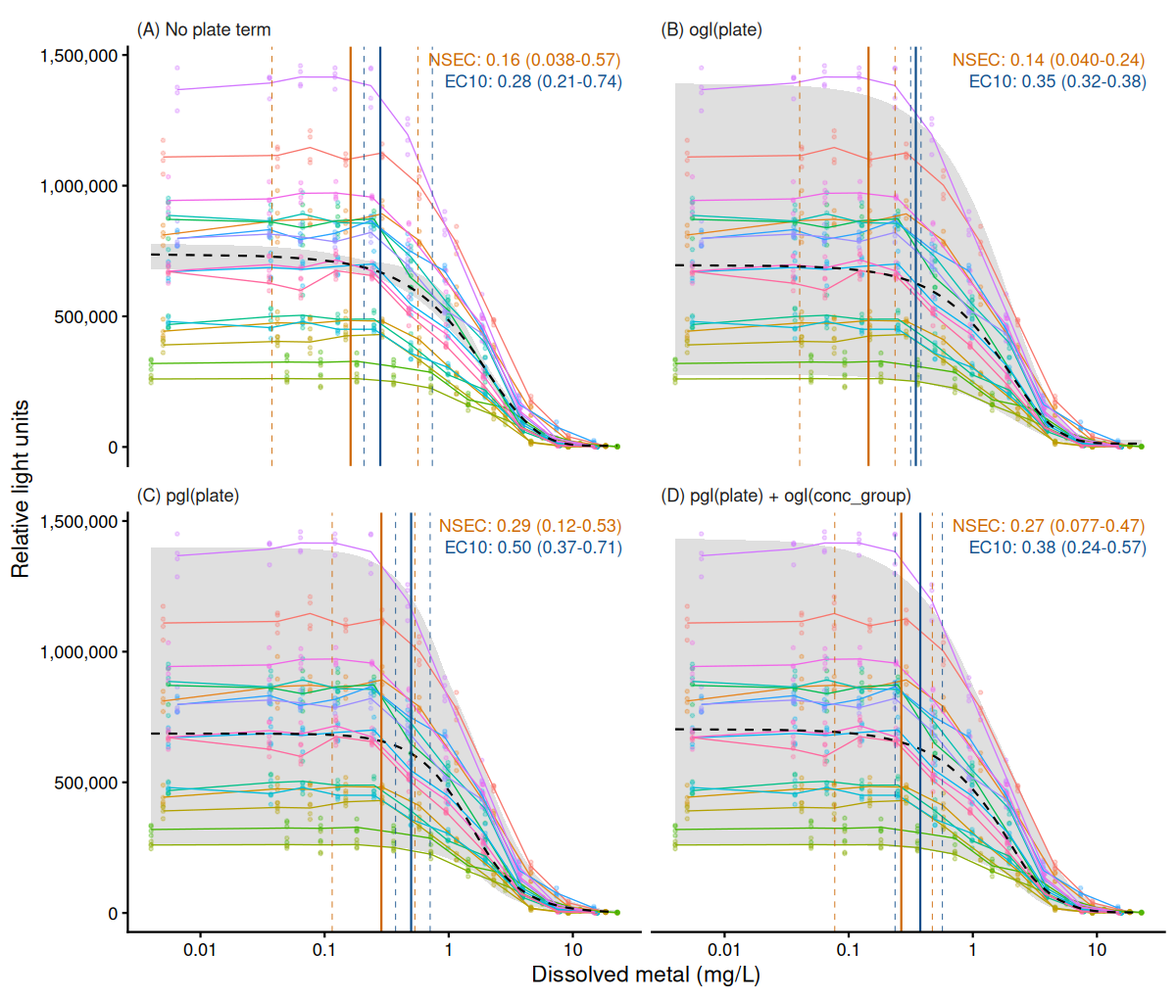
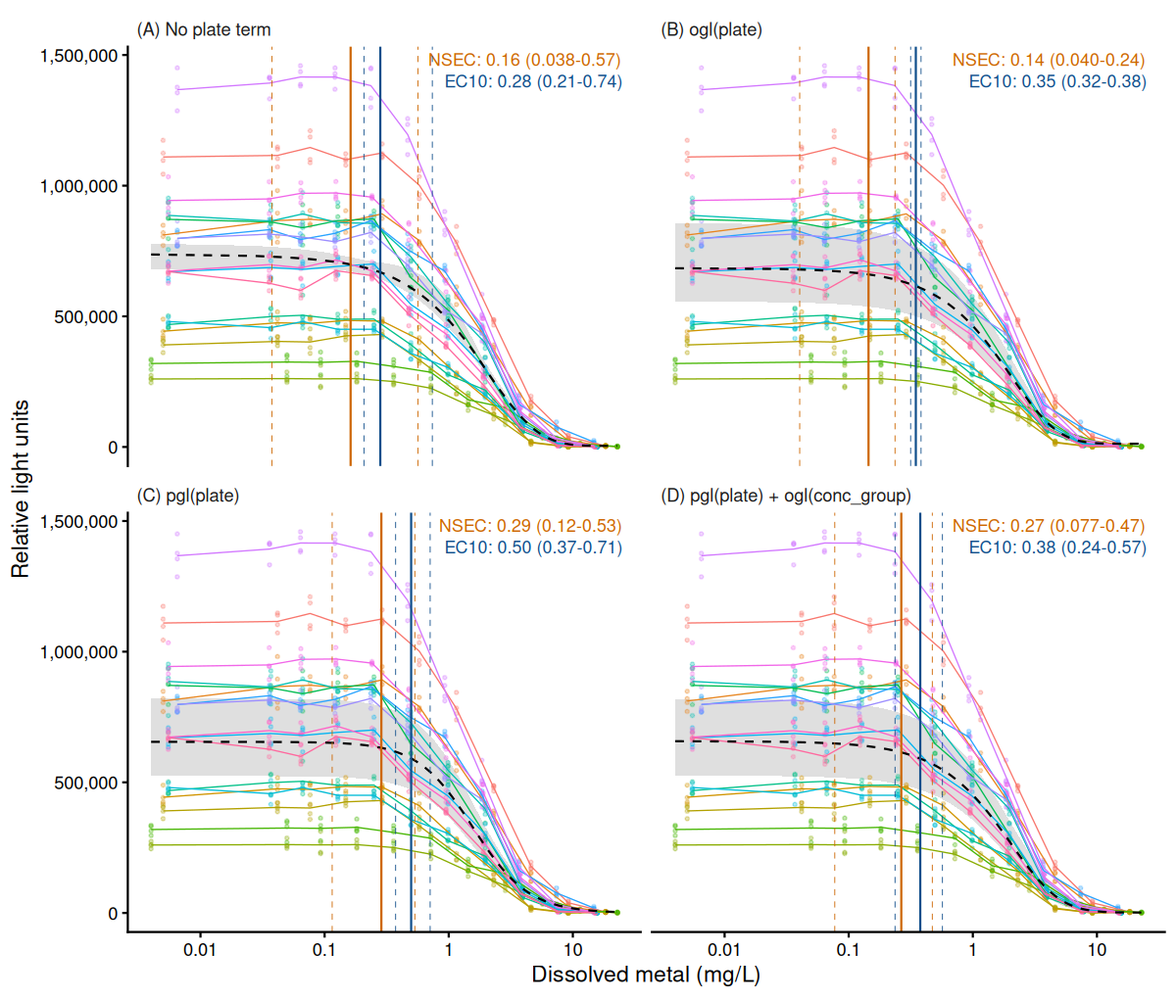
Deploying to gh-pages from @ open-AIMS/bayesnec@c6fff4658cb30df859e9e85793e5b8e6be7b2eff 🚀

diff --git a/dev/articles/example8.html b/dev/articles/example8.html
@@ -835,15 +835,20 @@ plate against its own control (its fitted mean at its lowest
 concentration). The plates are then pooled by mixing their posterior
 draws in proportion to each plate’s number of observations, so the
 estimate describes the 17 plates that were tested and not a new plate.
-The band that <code><a href="../reference/autoplot.html">autoplot()</a></code> and <code><a href="../reference/ggbnec_data.html">ggbnec_data()</a></code>
-draw is a mixture of the plates’ curves in the same proportions.
-<code>pool</code> selects another combination (e.g. one estimate per
-plate with <code>pool = "none"</code>), and <code>x_control</code> sets
-the concentration at which each plate’s control is read (see
-<code><a href="../reference/ecx.html">?ecx</a></code>). The cell term in D is set to zero in these
-predictions, as on the single plate, because each cell is observed at
-one concentration, so its deviation remains part of the uncertainty in
-the control.</p>
+The curve and band that <code><a href="../reference/autoplot.html">autoplot()</a></code> and
+<code><a href="../reference/ggbnec_data.html">ggbnec_data()</a></code> draw are those of the population curve, with
+every plate’s deviation at zero. The band is therefore the credible
+interval of the mean response of a typical plate, and it does not
+include the differences between plates. The EC10 and NSEC are read from
+the plates’ own curves, so their lines need not fall where the plotted
+curve has fallen by 10 per cent or below the 0.01 quantile of its
+control. <code>pool</code> selects another combination (e.g. one
+estimate per plate with <code>pool = "none"</code>), and
+<code>x_control</code> sets the concentration at which each plate’s
+control is read (see <code><a href="../reference/ecx.html">?ecx</a></code>). The cell term in D is set to
+zero in these predictions, as on the single plate, because each cell is
+observed at one concentration, so its deviation remains part of the
+uncertainty in the control.</p>
 <div class="sourceCode" id="cb19"><pre class="downlit sourceCode r">
 <code class="sourceCode R"><span><span class="va">fit_pooled</span> <span class="op">&lt;-</span> <span class="fu"><a href="../reference/bnec.html">bnec</a></span><span class="op">(</span><span class="va">rlu_cens</span> <span class="op">|</span> <span class="fu">cens</span><span class="op">(</span><span class="va">censoring</span><span class="op">)</span> <span class="op">~</span> <span class="fu">crf</span><span class="op">(</span><span class="fu"><a href="https://rdrr.io/r/base/Log.html" class="external-link">log</a></span><span class="op">(</span><span class="va">conc</span><span class="op">)</span>, <span class="st">"all"</span><span class="op">)</span> <span class="op">+</span></span>
 <span>                     <span class="fu">disp</span><span class="op">(</span><span class="st">"power"</span><span class="op">)</span>,</span>
@@ -968,14 +973,14 @@ shows each fit.</p>
 <span>  <span class="fu"><a href="https://ggplot2.tidyverse.org/reference/theme.html" class="external-link">theme</a></span><span class="op">(</span>legend.position <span class="op">=</span> <span class="st">"none"</span>, strip.background <span class="op">=</span> <span class="fu"><a href="https://ggplot2.tidyverse.org/reference/element.html" class="external-link">element_blank</a></span><span class="op">(</span><span class="op">)</span>,</span>
 <span>        strip.text <span class="op">=</span> <span class="fu"><a href="https://ggplot2.tidyverse.org/reference/element.html" class="external-link">element_text</a></span><span class="op">(</span>hjust <span class="op">=</span> <span class="fl">0</span><span class="op">)</span><span class="op">)</span></span></code></pre></div>
 <div class="figure" style="text-align: center">
-<img src="vignette-fig-fig-plate-terms-1.png" alt="The zinc readings at 15 minutes fitted with each plate structure (panels A to D). Each point is one well, and each thin line joins one plate's observed means, coloured by plate; these do not change between panels. The dashed black line is the median of the model-averaged curve and the grey band its 95% credible interval, taken in panels B to D over the mixture of the observed plates' curves. The blue lines mark the EC10 and the orange lines the NSEC, solid at the median and dashed at the 95% bounds." width="100%"><p class="caption">
+<img src="vignette-fig-fig-plate-terms-1.png" alt="The zinc readings at 15 minutes fitted with each plate structure (panels A to D). Each point is one well, and each thin line joins one plate's observed means, coloured by plate; these do not change between panels. The dashed black line is the median of the model-averaged curve and the grey band its 95% credible interval, in panels B to D for the population curve, with each plate's deviation at zero. The blue lines mark the EC10 and the orange lines the NSEC, solid at the median and dashed at the 95% bounds." width="100%"><p class="caption">
 The zinc readings at 15 minutes fitted with each plate structure (panels
 A to D). Each point is one well, and each thin line joins one plate’s
 observed means, coloured by plate; these do not change between panels.
 The dashed black line is the median of the model-averaged curve and the
-grey band its 95% credible interval, taken in panels B to D over the
-mixture of the observed plates’ curves. The blue lines mark the EC10 and
-the orange lines the NSEC, solid at the median and dashed at the 95%
+grey band its 95% credible interval, in panels B to D for the population
+curve, with each plate’s deviation at zero. The blue lines mark the EC10
+and the orange lines the NSEC, solid at the median and dashed at the 95%
 bounds.
 </p>
 </div>
@@ -986,11 +991,12 @@ fitted curve, its band, and the EC10 and NSEC.</p>
 plates are counted as residual variation, and one curve is fitted to the
 wells of all 17 plates as though they came from one plate. Its band is
 therefore narrow, with an upper bound 1.14 times its lower bound at the
-lowest concentration. With a plate term (panels B to D), the band is
-that of the mixture of the plates’ curves, so at the lowest
-concentration it includes the differences in gain between plates as well
-as the uncertainty in each plate’s curve, and its upper bound is 5.0 to
-5.4 times its lower bound.</p>
+lowest concentration. With a plate term (panels B to D), the upper bound
+is 1.5 to 1.6 times the lower bound, because the population curve then
+describes a typical plate, and its height is estimated from plates that
+differ in gain. The band does not include those differences themselves,
+and the mean reading of 11 of the 17 plates at their lowest
+concentration is outside it.</p>
 <p>The EC10 interval depends on the kind of plate term.
 <code>ogl(plate)</code> (B) scales each plate’s curve by one factor,
 which cancels in an effect measured from that plate’s own control, so in
@@ -1217,10 +1223,10 @@ from the table above in this way.</p>
 <span>  <span class="fu">mark_estimate</span><span class="op">(</span><span class="fu">by_level</span><span class="op">(</span><span class="va">level_ec10</span><span class="op">)</span>, <span class="st">"EC10"</span>, <span class="va">ec10_colour</span>, vjust <span class="op">=</span> <span class="fl">3.2</span><span class="op">)</span> <span class="op">+</span></span>
 <span>  <span class="va">log_x</span> <span class="op">+</span> <span class="va">rlu_axes</span></span></code></pre></div>
 <div class="figure" style="text-align: center">
-<img src="vignette-fig-fig-metals-1.png" alt="The copper and zinc readings at 15 minutes, with the model-averaged curve of each metal's separate fit (dashed line, the median over the mixture of that metal's plates) and its 95% credible interval (grey band). The blue lines mark the EC10 and the orange lines the NSEC, solid at the median and dashed at the 95% bounds." width="95%"><p class="caption">
+<img src="vignette-fig-fig-metals-1.png" alt="The copper and zinc readings at 15 minutes, with the model-averaged curve of each metal's separate fit (dashed line, the population curve, with each plate's deviation at zero) and its 95% credible interval (grey band). The blue lines mark the EC10 and the orange lines the NSEC, solid at the median and dashed at the 95% bounds." width="95%"><p class="caption">
 The copper and zinc readings at 15 minutes, with the model-averaged
-curve of each metal’s separate fit (dashed line, the median over the
-mixture of that metal’s plates) and its 95% credible interval (grey
+curve of each metal’s separate fit (dashed line, the population curve,
+with each plate’s deviation at zero) and its 95% credible interval (grey
 band). The blue lines mark the EC10 and the orange lines the NSEC, solid
 at the median and dashed at the 95% bounds.
 </p>

diff --git a/dev/reference/bayesnecformula.html b/dev/reference/bayesnecformula.html
@@ -465,34 +465,34 @@ formula.</p>
 <span class="r-in"><span></span></span>
 <span class="r-in"><span><span class="fu">bayesnecformula</span><span class="op">(</span><span class="va">y</span> <span class="op">~</span> <span class="fu">crf</span><span class="op">(</span><span class="va">x</span>, <span class="st">"nec3param"</span><span class="op">)</span><span class="op">)</span></span></span>
 <span class="r-out co"><span class="r-pr">#&gt;</span> y ~ crf(x, "nec3param")</span>
-<span class="r-out co"><span class="r-pr">#&gt;</span> &lt;environment: 0x594cdde260c8&gt;</span>
+<span class="r-out co"><span class="r-pr">#&gt;</span> &lt;environment: 0x5b6cb8699d98&gt;</span>
 <span class="r-in"><span><span class="co"># or use shot alias bnf</span></span></span>
 <span class="r-in"><span><span class="fu">bayesnecformula</span><span class="op">(</span><span class="va">y</span> <span class="op">~</span> <span class="fu">crf</span><span class="op">(</span><span class="va">x</span>, <span class="st">"nec3param"</span><span class="op">)</span><span class="op">)</span> <span class="op">==</span> <span class="fu">bnf</span><span class="op">(</span><span class="va">y</span> <span class="op">~</span> <span class="fu">crf</span><span class="op">(</span><span class="va">x</span>, <span class="st">"nec3param"</span><span class="op">)</span><span class="op">)</span></span></span>
 <span class="r-out co"><span class="r-pr">#&gt;</span> [1] TRUE</span>
 <span class="r-in"><span><span class="fu">bnf</span><span class="op">(</span><span class="va">y</span> <span class="op">|</span> <span class="fu">trials</span><span class="op">(</span><span class="va">tr</span><span class="op">)</span> <span class="op">~</span> <span class="fu">crf</span><span class="op">(</span><span class="fu"><a href="https://rdrr.io/r/base/MathFun.html" class="external-link">sqrt</a></span><span class="op">(</span><span class="va">x</span><span class="op">)</span>, <span class="st">"nec3param"</span><span class="op">)</span><span class="op">)</span></span></span>
 <span class="r-out co"><span class="r-pr">#&gt;</span> y | trials(tr) ~ crf(sqrt(x), "nec3param")</span>
-<span class="r-out co"><span class="r-pr">#&gt;</span> &lt;environment: 0x594cdde260c8&gt;</span>
+<span class="r-out co"><span class="r-pr">#&gt;</span> &lt;environment: 0x5b6cb8699d98&gt;</span>
 <span class="r-in"><span><span class="fu">bnf</span><span class="op">(</span><span class="va">y</span> <span class="op">|</span> <span class="fu">trials</span><span class="op">(</span><span class="va">tr</span><span class="op">)</span> <span class="op">~</span> <span class="fu">crf</span><span class="op">(</span><span class="va">x</span>, <span class="st">"nec3param"</span><span class="op">)</span> <span class="op">+</span> <span class="fu">ogl</span><span class="op">(</span><span class="va">group_1</span><span class="op">)</span> <span class="op">+</span> <span class="fu">pgl</span><span class="op">(</span><span class="va">group_2</span><span class="op">)</span><span class="op">)</span></span></span>
 <span class="r-out co"><span class="r-pr">#&gt;</span> y | trials(tr) ~ crf(x, "nec3param") + ogl(group_1) + pgl(group_2)</span>
-<span class="r-out co"><span class="r-pr">#&gt;</span> &lt;environment: 0x594cdde260c8&gt;</span>
+<span class="r-out co"><span class="r-pr">#&gt;</span> &lt;environment: 0x5b6cb8699d98&gt;</span>
 <span class="r-in"><span><span class="co"># dispersion as a function of the predictor</span></span></span>
 <span class="r-in"><span><span class="fu">bnf</span><span class="op">(</span><span class="va">y</span> <span class="op">~</span> <span class="fu">crf</span><span class="op">(</span><span class="va">x</span>, <span class="st">"nec3param"</span><span class="op">)</span> <span class="op">+</span> <span class="fu">disp</span><span class="op">(</span><span class="op">~</span><span class="va">x</span><span class="op">)</span><span class="op">)</span></span></span>
 <span class="r-out co"><span class="r-pr">#&gt;</span> y ~ crf(x, "nec3param") + disp(~x)</span>
-<span class="r-out co"><span class="r-pr">#&gt;</span> &lt;environment: 0x594cdde260c8&gt;</span>
+<span class="r-out co"><span class="r-pr">#&gt;</span> &lt;environment: 0x5b6cb8699d98&gt;</span>
 <span class="r-in"><span><span class="co"># dispersion as a function of the fitted mean</span></span></span>
 <span class="r-in"><span><span class="fu">bnf</span><span class="op">(</span><span class="va">y</span> <span class="op">~</span> <span class="fu">crf</span><span class="op">(</span><span class="va">x</span>, <span class="st">"nec3param"</span><span class="op">)</span> <span class="op">+</span> <span class="fu">disp</span><span class="op">(</span><span class="st">"power"</span><span class="op">)</span><span class="op">)</span></span></span>
 <span class="r-out co"><span class="r-pr">#&gt;</span> y ~ crf(x, "nec3param") + disp("power")</span>
-<span class="r-out co"><span class="r-pr">#&gt;</span> &lt;environment: 0x594cdde260c8&gt;</span>
+<span class="r-out co"><span class="r-pr">#&gt;</span> &lt;environment: 0x5b6cb8699d98&gt;</span>
 <span class="r-in"><span><span class="fu">bnf</span><span class="op">(</span><span class="va">y</span> <span class="op">|</span> <span class="fu">trials</span><span class="op">(</span><span class="va">tr</span><span class="op">)</span> <span class="op">~</span> <span class="fu">crf</span><span class="op">(</span><span class="va">x</span>, <span class="st">"nec3param"</span><span class="op">)</span> <span class="op">+</span> <span class="op">(</span><span class="va">nec</span> <span class="op">+</span> <span class="va">top</span> <span class="op">|</span> <span class="va">group_1</span><span class="op">)</span><span class="op">)</span></span></span>
 <span class="r-out co"><span class="r-pr">#&gt;</span> y | trials(tr) ~ crf(x, "nec3param") + (nec + top | group_1)</span>
-<span class="r-out co"><span class="r-pr">#&gt;</span> &lt;environment: 0x594cdde260c8&gt;</span>
+<span class="r-out co"><span class="r-pr">#&gt;</span> &lt;environment: 0x5b6cb8699d98&gt;</span>
 <span class="r-in"><span></span></span>
 <span class="r-in"><span><span class="co"># \donttest{</span></span></span>
 <span class="r-in"><span><span class="co"># The predictor expression is passed to Stan by brms. Precompute a</span></span></span>
 <span class="r-in"><span><span class="co"># transformation unless its function is also defined for Stan.</span></span></span>
 <span class="r-in"><span><span class="kw"><a href="https://rdrr.io/r/base/try.html" class="external-link">try</a></span><span class="op">(</span><span class="fu">bnf</span><span class="op">(</span><span class="va">y</span> <span class="op">|</span> <span class="fu">trials</span><span class="op">(</span><span class="va">tr</span><span class="op">)</span> <span class="op">~</span> <span class="fu">crf</span><span class="op">(</span><span class="fu"><a href="https://rdrr.io/r/base/scale.html" class="external-link">scale</a></span><span class="op">(</span><span class="va">x</span>, scale <span class="op">=</span> <span class="cn">TRUE</span><span class="op">)</span>, <span class="st">"nec3param"</span><span class="op">)</span><span class="op">)</span><span class="op">)</span></span></span>
 <span class="r-out co"><span class="r-pr">#&gt;</span> y | trials(tr) ~ crf(scale(x, scale = TRUE), "nec3param")</span>
-<span class="r-out co"><span class="r-pr">#&gt;</span> &lt;environment: 0x594cdde260c8&gt;</span>
+<span class="r-out co"><span class="r-pr">#&gt;</span> &lt;environment: 0x5b6cb8699d98&gt;</span>
 <span class="r-in"><span><span class="co"># }</span></span></span>
 </code></pre></div>
     </div>

diff --git a/dev/news/index.html b/dev/news/index.html
@@ -114,13 +114,13 @@
 <h3 id="estimates-from-observed-group-levels-2-2-0">Estimates from observed group levels<a class="anchor" aria-label="anchor" href="#estimates-from-observed-group-levels-2-2-0"></a></h3>
 <ul><li>
 <code><a href="../reference/compare_posterior.html">compare_posterior()</a></code> now accepts a <code>bayesnecjointfit</code> and contrasts its levels at the same posterior draw, for NEC, N(S)EC, NSEC, ECx and fitted curve comparisons, so that each contrast keeps the dependence between levels estimated in one posterior. Separate fits continue to pair draws at random (<a href="https://github.com/open-aims/bayesnec/issues/571" class="external-link">#571</a>).</li>
-<li>For a group term whose levels span concentrations, <code><a href="../reference/ecx.html">ecx()</a></code>, <code><a href="../reference/nsec.html">nsec()</a></code>, <code><a href="../reference/ecnsec.html">ecnsec()</a></code> and <code><a href="../reference/nec.html">nec()</a></code> now read the observed level curves, including their fitted group deviations. A level observed at only one concentration is excluded from estimates, with a message naming it. If every level has only one concentration, the term remains at zero when curves are predicted. This applies to single fits, model sets, hurdle fits and joint refits, and to curves and no-effect summaries stored during fitting (<a href="https://github.com/open-aims/bayesnec/issues/554" class="external-link">#554</a>).</li>
+<li>For a group term whose levels span concentrations, <code><a href="../reference/ecx.html">ecx()</a></code>, <code><a href="../reference/nsec.html">nsec()</a></code>, <code><a href="../reference/ecnsec.html">ecnsec()</a></code> and <code><a href="../reference/nec.html">nec()</a></code> now read the observed level curves, including their fitted group deviations. A level observed at only one concentration is excluded from estimates, with a message naming it. If every level has only one concentration, the term remains at zero when curves are predicted. This applies to single fits, model sets, hurdle fits and joint refits, and to no-effect summaries stored during fitting (<a href="https://github.com/open-aims/bayesnec/issues/554" class="external-link">#554</a>). The curve and credible band of <code><a href="../reference/autoplot.html">autoplot()</a></code> and <code><a href="../reference/ggbnec_data.html">ggbnec_data()</a></code> remain the population curve, with group deviations at zero, so they do not include the variation between levels, and the estimate lines need not fall where that curve equals the corresponding response.</li>
 <li>
 <code>pool</code> selects per-level estimates, an observation-weighted mixture, a weighted mean of estimates, or an estimate from the weighted mean curve. A joint refit returns levels by default; a single fit with a spanning group term returns the mixture. The mixture gives each posterior draw to one level and keeps it at its position. On a joint refit, a group term that the levels share, such as a batch in which both were tested, is read at the same value for every level at each draw, as often as their observation counts allow (<a href="https://github.com/open-aims/bayesnec/issues/571" class="external-link">#571</a>). <code>x_control = "own"</code> uses each level’s lowest observed concentration. <code>"shared"</code> or a numeric concentration uses one control across levels and warns where that requires extrapolation.</li>
 <li>Pooled summaries retain censoring at the common tested bounds. The grouped fit methods also accept <code>pool</code>, and <code><a href="../reference/ecnsec.html">ecnsec()</a></code> now works on a grouped fit.</li>
 <li>Fits saved before this change still hold their earlier summary and plot values. Reading either gives a warning with an <code><a href="../reference/amend.html">amend()</a></code> call that rebuilds those values from the stored model; the endpoint functions read observed levels directly from either an old or a new fit.</li>
 <li>
-<code><a href="../reference/ggbnec_data.html">ggbnec_data()</a></code> now reads a single fit’s credible band from its stored <code>pred_vals</code>, so the band uses the same observed-level basis as the stored no-effect summary. Its numerical values can differ slightly from the older band built with <code><a href="https://paulbuerkner.com/brms/reference/conditional_effects.brmsfit.html" class="external-link">conditional_effects()</a></code>.</li>
+<code><a href="../reference/ggbnec_data.html">ggbnec_data()</a></code> now reads a single fit’s credible band from its stored <code>pred_vals</code>. Its numerical values can differ slightly from the older band built with <code><a href="https://paulbuerkner.com/brms/reference/conditional_effects.brmsfit.html" class="external-link">conditional_effects()</a></code>.</li>
 </ul></div>
 <div class="section level3">
 <h3 id="default-priors-2-2-0">Default priors<a class="anchor" aria-label="anchor" href="#default-priors-2-2-0"></a></h3>

diff --git a/dev/reference/check_formula.html b/dev/reference/check_formula.html
@@ -187,13 +187,13 @@ our GitHub page. See details about <code>aterms</code> in ?bayesnecformula.</p>
 <span class="r-msg co"><span class="r-pr">#&gt;</span> The parameter(s) "bot" not valid parameters in nechormepwr. If this was a mistake, check ?models and ?show_params, otherwise ignore.</span>
 <span class="r-msg co"><span class="r-pr">#&gt;</span> The parameter(s) "bot" not valid parameters in nechormepwr01. If this was a mistake, check ?models and ?show_params, otherwise ignore.</span>
 <span class="r-out co"><span class="r-pr">#&gt;</span> y | trials(tr) ~ crf(x, "nec") + (nec + bot | group_1)</span>
-<span class="r-out co"><span class="r-pr">#&gt;</span> &lt;environment: 0x594ced9328c0&gt;</span>
+<span class="r-out co"><span class="r-pr">#&gt;</span> &lt;environment: 0x5b6cc628eeb8&gt;</span>
 <span class="r-in"><span><span class="co"># }</span></span></span>
 <span class="r-in"><span><span class="co"># runs fine</span></span></span>
 <span class="r-in"><span><span class="va">f_3</span> <span class="op">&lt;-</span> <span class="st">"y | trials(tr) ~ crf(sqrt(x), \"nec3param\")"</span></span></span>
 <span class="r-in"><span><span class="fu">check_formula</span><span class="op">(</span><span class="fu"><a href="bayesnecformula.html">bnf</a></span><span class="op">(</span><span class="va">f_3</span><span class="op">)</span>, <span class="va">data</span><span class="op">)</span></span></span>
 <span class="r-out co"><span class="r-pr">#&gt;</span> y | trials(tr) ~ crf(sqrt(x), "nec3param")</span>
-<span class="r-out co"><span class="r-pr">#&gt;</span> &lt;environment: 0x594ced9328c0&gt;</span>
+<span class="r-out co"><span class="r-pr">#&gt;</span> &lt;environment: 0x5b6cc628eeb8&gt;</span>
 <span class="r-in"><span><span class="va">f_4</span> <span class="op">&lt;-</span> <span class="va">y</span> <span class="op">|</span> <span class="fu">trials</span><span class="op">(</span><span class="va">tr</span><span class="op">)</span> <span class="op">~</span> <span class="fu">crf</span><span class="op">(</span><span class="va">x</span>, <span class="st">"nec3param"</span><span class="op">)</span> <span class="op">+</span> <span class="fu">ogl</span><span class="op">(</span><span class="va">group_1</span><span class="op">)</span> <span class="op">+</span> <span class="fu">pgl</span><span class="op">(</span><span class="va">group_2</span><span class="op">)</span></span></span>
 <span class="r-in"><span><span class="fu"><a href="https://rdrr.io/r/base/class.html" class="external-link">inherits</a></span><span class="op">(</span><span class="fu">check_formula</span><span class="op">(</span><span class="fu"><a href="bayesnecformula.html">bnf</a></span><span class="op">(</span><span class="va">f_4</span><span class="op">)</span>, <span class="va">data</span><span class="op">)</span>, <span class="st">"bayesnecformula"</span><span class="op">)</span></span></span>
 <span class="r-out co"><span class="r-pr">#&gt;</span> [1] TRUE</span>

diff --git a/dev/reference/bayesnecfit-class.html b/dev/reference/bayesnecfit-class.html
@@ -147,16 +147,18 @@ when every supplied column was used by the fit.</p></dd>
 <dt><code>pred_vals</code></dt>
 <dd><p>A <code><a href="https://rdrr.io/r/base/list.html" class="external-link">list</a></code> with <code>data</code>, a
 <code><a href="https://rdrr.io/r/base/data.frame.html" class="external-link">data.frame</a></code> of summary posterior predicted values over
-a grid set by <code>resolution</code> and <code>x_range</code>, and a flag
-<code>observed_levels</code> recording whether spanning group terms were read.
+a grid set by <code>resolution</code> and <code>x_range</code>. Where a group term
+spans concentrations, the summaries describe the population curve, and the
+flags <code>observed_levels</code> and <code>band = "population"</code> record that
+the no-effect summaries read the observed levels and the band does not.
 Up to and including version 2.1.3.6 it also held <code>posterior</code>, the full
 <code>n_draws x resolution</code> matrix those summaries came from. That matrix
 dominated the size of a fitted object and is no longer stored; it is
 recomputed from <code>fit</code> where it is needed. To obtain it directly, use
 <code>posterior_epred(x, newdata = bnec_newdata(x, resolution = 1000),
-re_formula = NA)</code> where no group term spans concentrations. A fit saved
-before observed-level curves were stored retains its earlier values and
-gives a warning when they are displayed.</p></dd>
+re_formula = NA)</code>. A fit saved by an earlier development version without
+both flags retains its earlier values and gives a warning when they are
+displayed.</p></dd>
 
 
 <dt><code>top</code></dt>

diff --git a/dev/reference/compare_posterior.html b/dev/reference/compare_posterior.html
@@ -254,10 +254,10 @@ not every pair can always reach its largest share at once. Terms the levels
 do not share, such as plates that belong to one level, are chosen for each
 level independently, in proportion to its counts within the shared value.</p>
 <p>With <code>comparison = "fitted"</code>, every level is predicted over one grid
-spanning the levels' combined range, or at the rows of <code>newdata</code>, as
-the band of <code><a href="autoplot.html">autoplot</a></code> predicts it: at the observed group levels
-where a group term spans concentrations, and on the population curve
-otherwise. Only <code>newdata</code>, <code>ndraws</code> and <code>draw_ids</code> are
+spanning the levels' combined range, or at the rows of <code>newdata</code>: at
+the observed group levels where a group term spans concentrations, as
+<code><a href="ecx.html">ecx</a></code> reads them, and on the population curve otherwise. The
+band of <code><a href="autoplot.html">autoplot</a></code> is the population curve in both cases. Only <code>newdata</code>, <code>ndraws</code> and <code>draw_ids</code> are
 taken through <code>...</code>, and <code>make_newdata = FALSE</code> requires
 <code>newdata</code>. <code>seed</code> changes the result only where <code>ndraws</code>
 selects the draws.</p>

diff --git a/dev/reference/autoplot.html b/dev/reference/autoplot.html
@@ -321,6 +321,18 @@ supplying it together with <code>model</code> or <code>average</code> is an erro
 <code><a href="https://rdrr.io/r/base/list.html" class="external-link">list</a></code> of them, returned invisibly, as described under
 <code>multi_facet</code>.</p>
     </div>
+    <div id="details">
+    <h2>Details</h2>
+    <p>Where a group-level term spans the predictor, as a plate does when
+each plate is tested at every concentration, the curve and credible band
+are those of the population curve, with every group deviation set to zero.
+The band is therefore the 95% credible interval of the expected response
+of a typical level, and it does not include the variation between levels:
+the observations of a level whose deviation is large can lie outside it.
+The NEC, NSEC and ECx lines are read from the observed levels instead (see
+<code>pool</code> in <code><a href="ecx.html">ecx</a></code>), so they need not fall where the plotted
+curve equals the corresponding response.</p>
+    </div>
 
     <div id="ref-examples">
     <h2>Examples</h2>

diff --git a/dev/reference/bayesmanecfit-class.html b/dev/reference/bayesmanecfit-class.html
@@ -194,7 +194,8 @@ data.</p></dd>
 <dd><p>A <code><a href="https://rdrr.io/r/base/list.html" class="external-link">list</a></code> with <code>data</code>, a
 <code><a href="https://rdrr.io/r/base/data.frame.html" class="external-link">data.frame</a></code> of summary model-weighted
 posterior predicted values over a grid set by <code>resolution</code> and
-<code>x_range</code>, and an <code>observed_levels</code> flag. Up to and including
+<code>x_range</code>, and the <code>observed_levels</code> and <code>band</code> flags
+described for <code>pred_vals</code> in <code><a href="bayesnecfit-class.html">bayesnecfit</a></code>. Up to and including
 version 2.1.3.6 it also held
 <code>posterior</code>, the full <code>sample_size x resolution</code> matrix of
 weighted draws those summaries came from. Once the per-model matrices were

diff --git a/dev/reference/ggbnec_data.html b/dev/reference/ggbnec_data.html
@@ -183,6 +183,13 @@ drawn in each panel. For a <code>bayesnecfit</code> with a two-block family, the
 <code>panel</code> column holds the title of the curve each row belongs to, a
 factor whose levels follow <code>which</code>.</p>
     </div>
+    <div id="details">
+    <h2>Details</h2>
+    <p>The curve and credible band are those <code><a href="autoplot.html">autoplot</a></code>
+draws: where a group-level term spans the predictor, the population curve,
+with every group deviation set to zero. See the Details of
+<code><a href="autoplot.html">autoplot</a></code>.</p>
+    </div>
 
     <div id="ref-examples">
     <h2>Examples</h2>
